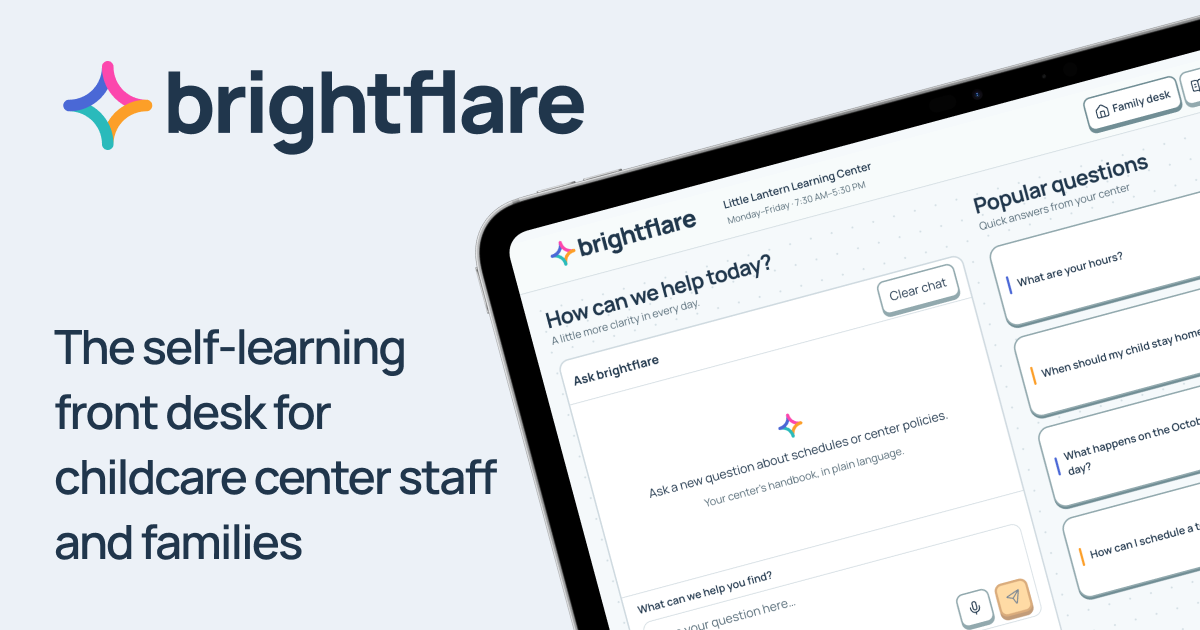
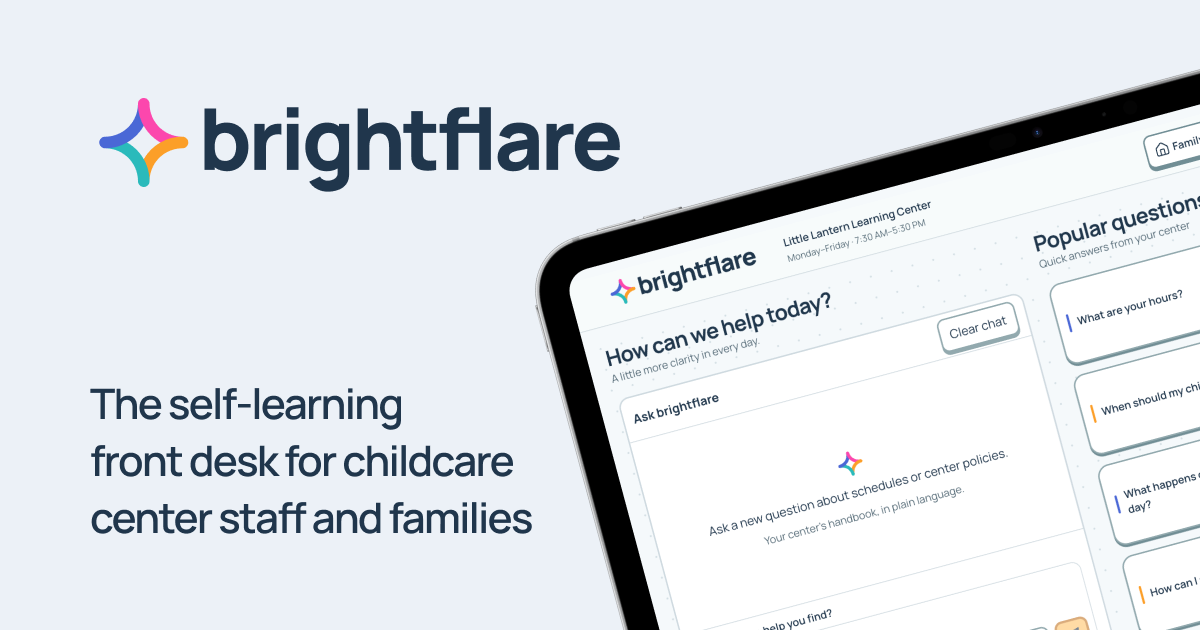
Refresh brightflare social card image

Changed region(s): [[0.0308, 0.0, 1.0, 1.0], [0.8017, 0.8143, 1.0, 1.0], [0.9558, 0.9651, 1.0, 1.0]]

diff --git a/README.md b/README.md
@@ -3,7 +3,7 @@
 </p>
 
 <p align="left">
-  <img src="public/assets/brightflare-social-card.png" alt="brightflare logo and a tablet showing the childcare family desk app" width="100%" />
+  <img src="public/assets/brightflare-social-card.png" alt="brightflare social card showing the childcare front desk message, logo, and angled family desk tablet" width="100%" />
 </p>
 
 **A calmer front desk for childcare families.** I designed brightflare for parents using the center’s shared iPad and staff maintaining trusted answers. At the front desk, the first screen keeps common questions in view without unnecessary scrolling; parents can open approved FAQs or ask something new, then clear the session for the next family. Staff see public question trends and gaps, improve approved guidance, and choose which answers to feature.
